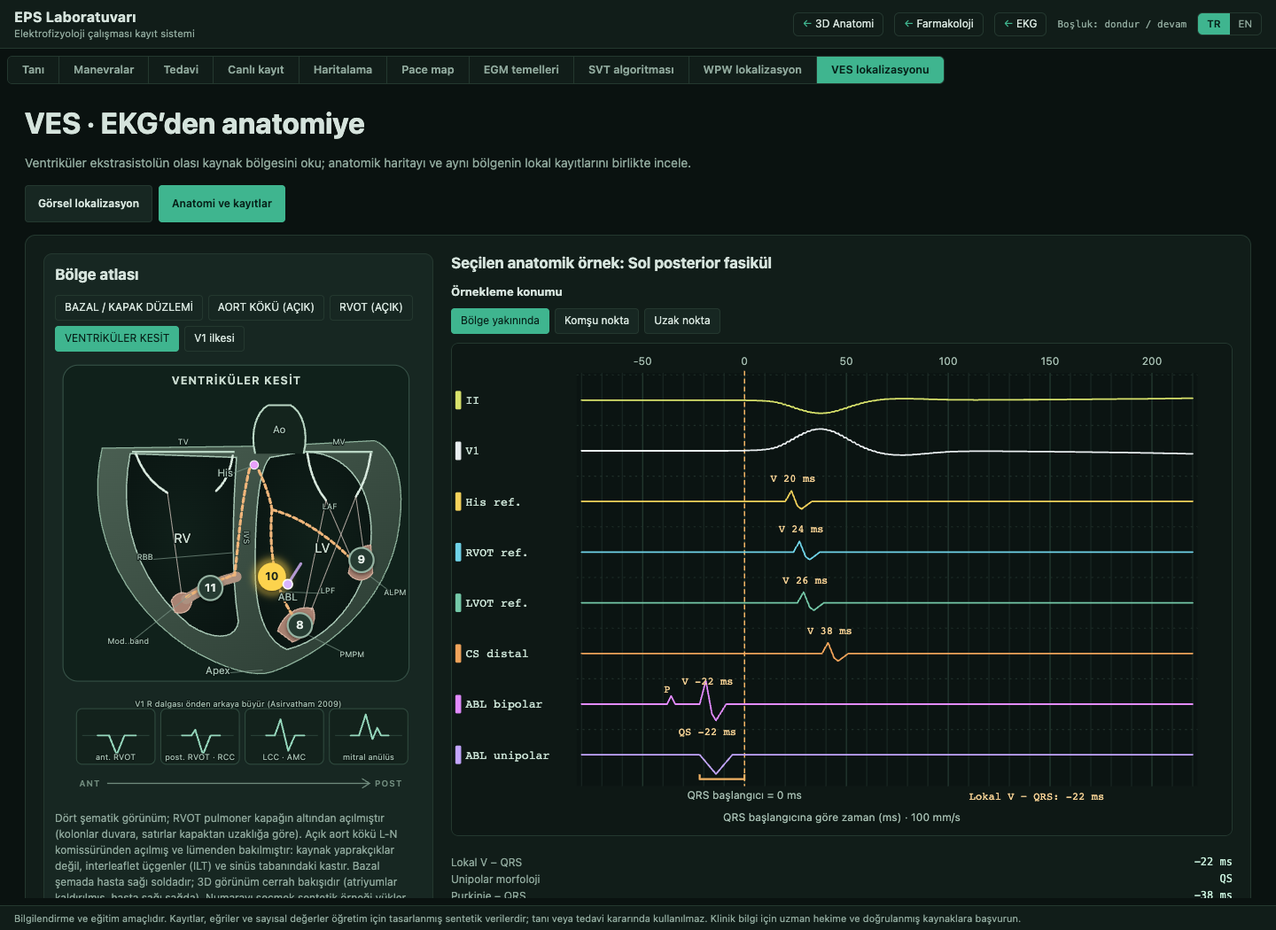
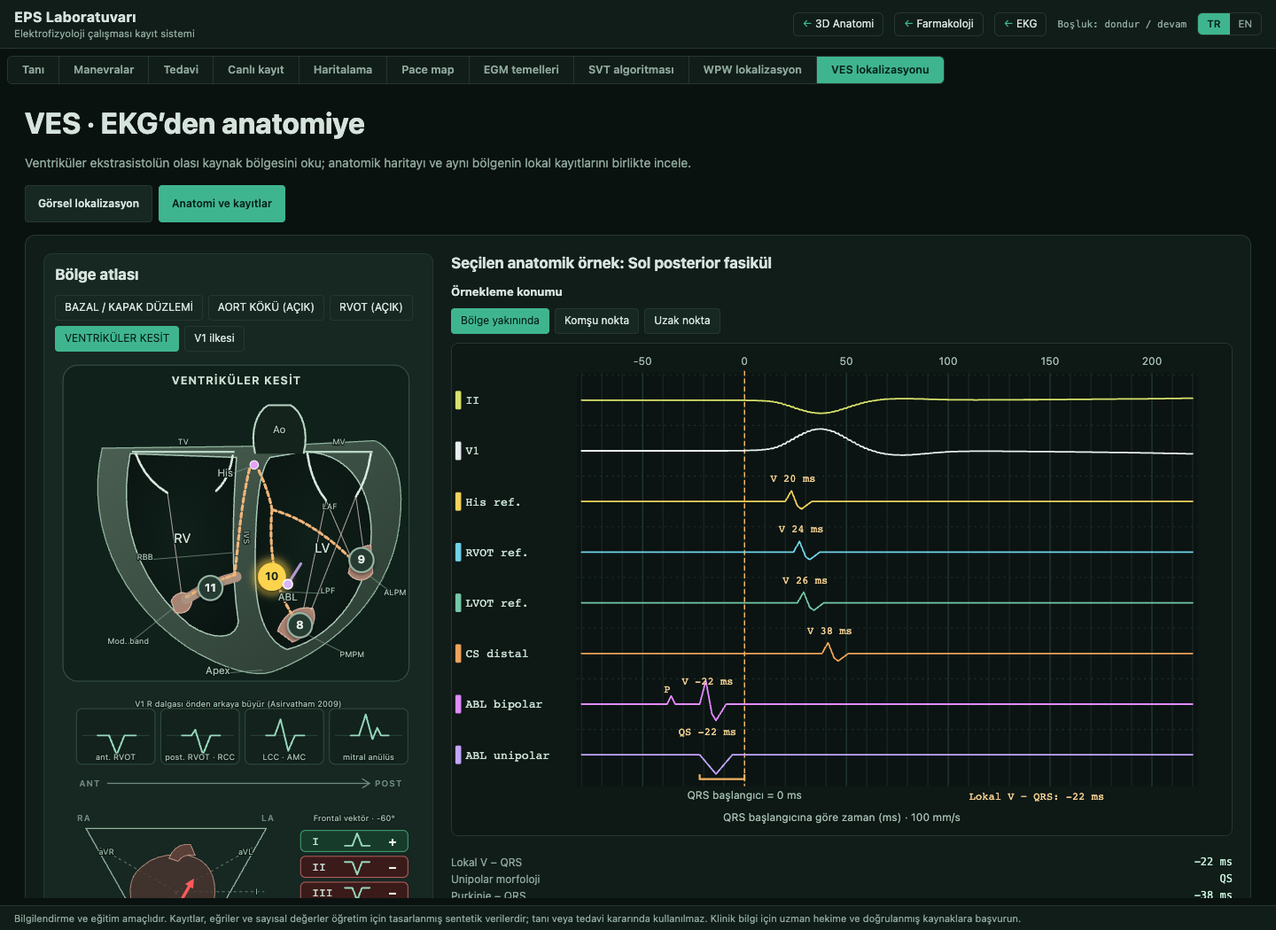
feat(eps): frontal vector panel for each VES example
Adapted from a user-supplied M. Didenko teaching slide ("RVOT VA:
typical ECG vector"; original drawing, the slide is not reproduced).
Under the V1 strip, the atlas shows the Einthoven triangle over a
frontal heart silhouette, the selected example's origin and an arrow at
its frontal QRS axis, with the six limb-lead polarities beside it.

The axis comes from the model (new vesFrontalAxis and
LIMB_LEAD_ANGLES), the same angle that projects the limb leads, so the
panel and the 12-lead strip agree by construction; a unit test checks
every example and lead. Anterior RVOT reads I -, II/III/aVF +, aVR and
aVL -, as on the slide. The panel hides in manual mode (wrapped in a
div, since SVG elements have no hidden property).

Changed region(s): [[0.0312, 0.8533, 0.3438, 0.9752]]

diff --git a/src/eps/ves-loc-text.js b/src/eps/ves-loc-text.js
@@ -8,6 +8,7 @@ export const VES_TEXT = {
     rvotColumns: ['ant. serbest', 'post. serbest', 'post. septum', 'ant. septum'], rvotPa: 'PA · kapak üstü', rvotFree: 'SERBEST DUVAR', rvotSeptum: 'SEPTUM',
     rvotFreeCue: 'QRS ≥ 140 ms, inferiorda çentik,', rvotFreeCue2: 'V3 R/S ≤ 1 (Dixit 2003)', rvotHisCue: 'His bölgesine doğru:', rvotHisCue2: 'V1 QS, III negatif (Park 2012)',
     v1Gradient: 'V1 R dalgası önden arkaya büyür (Asirvatham 2009)', v1Stations: ['ant. RVOT', 'post. RVOT · RCC', 'LCC · AMC', 'mitral anülüs'], v1Ant: 'ANT', v1Post: 'POST',
+    frontal: 'Frontal vektör', frontalNote: 'Vektörün izdüşümü; ekstremite derivasyonlarındaki işaretler EKG ile aynıdır.',
     v1Principle: 'V1 ilkesi', v1PrincipleSites: ['TA lateral', 'bazal septum (RV)', 'MA lateral'], v1PrincipleLegend: 'V1’e yaklaşan aktivasyon R, uzaklaşan QS yazar',
     rootRing: 'sanal bazal halka', rootMembranous: 'membranöz septum', rootFascicle: 'aort altı LAF dalı', rootMitral: 'aorto-mitral perde',
     mapNote: 'Dört şematik görünüm; RVOT pulmoner kapağın altından açılmıştır (kolonlar duvara, satırlar kapaktan uzaklığa göre). Açık aort kökü L-N komissüründen açılmış ve lümenden bakılmıştır: kaynak yaprakçıklar değil, interleaflet üçgenler (ILT) ve sinüs tabanındaki kastır. Bazal şemada hasta sağı soldadır; 3D görünüm cerrah bakışıdır (atriyumlar kaldırılmış, hasta sağı sağda). Numarayı seçmek sentetik örneği yükler. Sarı: seçilen örnek; mavi: EKG ile uyumlu aday bölgeler. Koordinatlar 3D atlasa kayıtlı değildir.',
@@ -41,7 +42,7 @@ export const VES_TEXT = {
     recordNote: 'Bipolar lokal V başlangıcını yüzey QRS başlangıcıyla karşılaştır. Unipolarda QS merkezden uzaklaşan dalgayı destekler; −dV/dt aktivasyon zamanını okumaya yardım eder. QS tek başına odağı kanıtlamaz. Sayılar tasarlanmıştır; bir ablasyon başarı eşiği değildir.',
     catheterNote: 'ABL, seçilen bölgedeki hareketli örnekleme elektrodudur. His, RVOT, LVOT ve distal CS şematik referans kanallarıdır. P işareti yalnız Purkinje örneklerinde çizilir; fasiküler reentry tanısı koydurmaz.',
     channel: { his: 'His ref.', rvot: 'RVOT ref.', lvot: 'LVOT ref.', cs: 'CS distal', abl: 'ABL bipolar', uni: 'ABL unipolar' },
-    sources: 'Kaynaklar ve yöntem', sourceNote: 'Easy PVC’den okuma sırası esinlenmiştir. Buradaki bölge daraltması özgün öğretim modelidir; EASY-PVC’nin doğrulanmış algoritması veya performansı olarak sunulmaz. EASY-PVC yayını ESC kongre özetidir. Haritalar ve kayıtlar özgün sentetik çizimlerdir. Aort kökü, ILT, sinüs komşulukları ve ventrikülo-infundibular kıvrım John ve ark. (Heart Rhythm 2026) derlemesine göre çizildi. Kesitteki V1 ilkesi bir Kagawa ECG eğitim slaytından uyarlanmıştır. RVOT alt bölgeleri, DI ve V1 R dalgası gradyanı kullanıcının sağladığı “Outflow VT” sunumunda (On YK, Samsung Medical Center, 2017) özetlenen Dixit 2003, Asirvatham 2009 ve Park 2012 çalışmalarına dayanır. Kaynak şekilleri kopyalanmadı.',
+    sources: 'Kaynaklar ve yöntem', sourceNote: 'Easy PVC’den okuma sırası esinlenmiştir. Buradaki bölge daraltması özgün öğretim modelidir; EASY-PVC’nin doğrulanmış algoritması veya performansı olarak sunulmaz. EASY-PVC yayını ESC kongre özetidir. Haritalar ve kayıtlar özgün sentetik çizimlerdir. Aort kökü, ILT, sinüs komşulukları ve ventrikülo-infundibular kıvrım John ve ark. (Heart Rhythm 2026) derlemesine göre çizildi. Kesitteki V1 ilkesi bir Kagawa ECG, frontal vektör çizimi bir M. Didenko eğitim slaytından uyarlanmıştır. RVOT alt bölgeleri, DI ve V1 R dalgası gradyanı kullanıcının sağladığı “Outflow VT” sunumunda (On YK, Samsung Medical Center, 2017) özetlenen Dixit 2003, Asirvatham 2009 ve Park 2012 çalışmalarına dayanır. Kaynak şekilleri kopyalanmadı.',
     sites: {
       'rvot-septal': site('RVOT septal', 'Pulmoner kapak altında posterior septal RVOT; ventrikülo-infundibular kıvrımla sağ aort sinüsünden ayrılır, aradaki doku fibröz ve kas uzantıları içerebilir.', 'LBBB benzeri QRS, inferior aks, geç geçiş; posterior septumda DI pozitif ve V1’de küçük r. EKG özellikleri sağ sinüs kaynağından güvenilir ayırmaz.', 'Lokal RV V’si QRS’den önce. Sağ sinüs kaynaklarında posterior RVOT neredeyse eş zamanlı aktive olur; ablasyon geçici baskılıyorsa sağ sinüsü haritala.', 'Posterior septal RVOT en erken görünse bile kaynak sağ sinüs çevresindeki kas olabilir; aktivasyon zamanlaması ve pace map ayırmada sınırlıdır.'),
       'rvot-free': site('RVOT serbest duvar', 'Anterior RV çıkış yolunun serbest duvar tarafı, pulmoner kapak altı; RVOT’un sola ve öne bakan kısmı.', 'İnferior aks, V1 QS ve geç geçiş; anteriorda DI negatif veya izoelektrik, III > II. Serbest duvar: QRS ≥ 140 ms, inferiorda çentik, V3 R/S ≤ 1.', 'Yakın ABL’de erken lokal V; uzak noktada daha geç aktivasyon ve rS örneği.', 'Kriterler RVOT serilerinden; çentik ve QRS genişliği tek tek kesin değildir. Pulmoner kapak üstü odaklarda da III > II görülebilir.'),
@@ -65,6 +66,7 @@ export const VES_TEXT = {
     rvotColumns: ['ant. free wall', 'post. free wall', 'post. septum', 'ant. septum'], rvotPa: 'PA · supravalvular', rvotFree: 'FREE WALL', rvotSeptum: 'SEPTUM',
     rvotFreeCue: 'QRS ≥ 140 ms, inferior notching,', rvotFreeCue2: 'V3 R/S ≤ 1 (Dixit 2003)', rvotHisCue: 'Towards the His region:', rvotHisCue2: 'V1 QS, negative III (Park 2012)',
     v1Gradient: 'V1 R wave grows from anterior to posterior (Asirvatham 2009)', v1Stations: ['ant. RVOT', 'post. RVOT · RCC', 'LCC · AMC', 'mitral annulus'], v1Ant: 'ANT', v1Post: 'POST',
+    frontal: 'Frontal vector', frontalNote: 'Projection of the vector; the limb-lead signs match the ECG strip.',
     v1Principle: 'V1 principle', v1PrincipleSites: ['lateral TA', 'basal septum (RV)', 'lateral MA'], v1PrincipleLegend: 'Activation towards V1 writes an R, away from it a QS',
     rootRing: 'virtual basal ring', rootMembranous: 'membranous septum', rootFascicle: 'infra-aortic LAF branch', rootMitral: 'aorto-mitral curtain',
     mapNote: 'Four schematic views; the RVOT is opened below the pulmonary valve (columns by wall, rows by depth below the valve). The aortic root is opened at the L-N commissure and seen from the lumen: the sources are the interleaflet triangles (ILT) and the muscle at the sinus bases, not the leaflets. In the basal schematic the patient\'s right is on the left; the 3D view is the surgeon\'s view (atria removed, patient right on the right). Select a number to load a synthetic example. Gold: selected example; blue: compatible ECG candidates. Coordinates are not registered to the 3D atlas.',
@@ -98,7 +100,7 @@ export const VES_TEXT = {
     recordNote: 'Compare bipolar local V onset with surface QRS onset. Unipolar QS supports a departing wavefront; −dV/dt helps read activation time. QS alone does not prove the focus. Values are designed, not an ablation success cutoff.',
     catheterNote: 'ABL is the movable sampling electrode in the selected region. His, RVOT, LVOT and distal CS are schematic reference channels. P is shown only in Purkinje examples; it does not diagnose fascicular reentry.',
     channel: { his: 'His ref.', rvot: 'RVOT ref.', lvot: 'LVOT ref.', cs: 'CS distal', abl: 'ABL bipolar', uni: 'ABL unipolar' },
-    sources: 'Sources and method', sourceNote: 'Reading order is inspired by Easy PVC. Region narrowing here is an original teaching model, not the validated EASY-PVC algorithm or its performance. The EASY-PVC publication is an ESC congress abstract. Maps and recordings are original synthetic drawings. The aortic root, ILTs, sinus relations and the ventriculo-infundibular fold follow the review by John et al. (Heart Rhythm 2026). The V1 principle on the cutaway is adapted from a Kagawa ECG teaching slide. RVOT subregions, lead I and the V1 R-wave gradient follow Dixit 2003, Asirvatham 2009 and Park 2012 as summarised in the user-supplied “Outflow VT” slides (On YK, Samsung Medical Center, 2017). Source figures are not reproduced.',
+    sources: 'Sources and method', sourceNote: 'Reading order is inspired by Easy PVC. Region narrowing here is an original teaching model, not the validated EASY-PVC algorithm or its performance. The EASY-PVC publication is an ESC congress abstract. Maps and recordings are original synthetic drawings. The aortic root, ILTs, sinus relations and the ventriculo-infundibular fold follow the review by John et al. (Heart Rhythm 2026). The V1 principle on the cutaway is adapted from a Kagawa ECG teaching slide, the frontal vector from an M. Didenko teaching slide. RVOT subregions, lead I and the V1 R-wave gradient follow Dixit 2003, Asirvatham 2009 and Park 2012 as summarised in the user-supplied “Outflow VT” slides (On YK, Samsung Medical Center, 2017). Source figures are not reproduced.',
     sites: {
       'rvot-septal': site('Septal RVOT', 'Posterior septal RVOT below the pulmonary valve; the ventriculo-infundibular fold separates it from the right aortic sinus and may hold fibrous tissue and muscular extensions.', 'LBBB-like QRS, inferior axis, late transition; on the posterior septum lead I is positive with a small V1 r. ECG features do not reliably separate it from a right-sinus source.', 'Local RV V precedes QRS. With right-sinus sources the posterior RVOT activates almost simultaneously; if ablation only suppresses transiently, map the right sinus.', 'Even when the posterior septal RVOT is earliest, the source may be muscle around the right sinus; timing and pace mapping discriminate poorly.'),
       'rvot-free': site('RVOT free wall', 'Anterior free-wall side of the RV outflow below the pulmonary valve; the leftward, anterior part of the RVOT.', 'Inferior axis, V1 QS and late transition; anteriorly lead I is negative or isoelectric and III > II. Free wall: QRS ≥ 140 ms, inferior notching, V3 R/S ≤ 1.', 'Early local V at near ABL; later activation and rS at the remote example.', 'Criteria come from RVOT series; notching and width are not individually definitive. Supravalvular pulmonary foci can also show III > II.'),

diff --git a/src/eps/ves-loc-map.js b/src/eps/ves-loc-map.js
@@ -1,4 +1,4 @@
-import { VES_REGIONS } from './ves-loc-model.js';
+import { VES_REGIONS, LIMB_LEAD_ANGLES } from './ves-loc-model.js';
 
 // Two original anatomical schematics for the PVC workbook. Basal view: the
 // ventricular base seen from above with the atria removed, anterior up and
@@ -289,6 +289,59 @@ function v1PrincipleOverlay(doc, g, t) {
   t.v1PrincipleSites.forEach((name, i) => { const [x, y] = V1_PRINCIPLE[i].tag; label(doc, layer, x, y, name, 'ves-map-tiny ves-v1-tag'); });
   label(doc, layer, 568, 44, t.v1PrincipleLegend, 'ves-map-tiny');
   g.append(layer);
+}
+
+/**
+ * Frontal vector (original drawing after an M. Didenko teaching slide): Einthoven triangle over a
+ * frontal heart silhouette, the example's origin and its QRS axis. Limb-lead polarities are the
+ * projections of that axis, the same numbers that draw the 12-lead strip.
+ */
+const FRONTAL_SITES = Object.freeze({
+  'rvot-septal': [116, 58], 'rvot-free': [128, 52], 'lvot-cusp': [100, 70], 'lv-summit': [140, 66], 'para-his': [90, 92],
+  tricuspid: [70, 124], mitral: [152, 86], 'papillary-pm': [120, 144], 'papillary-al': [154, 122], fascicle: [110, 136], moderator: [88, 136], crux: [102, 156]
+});
+export const leadPolarity = (axis, lead) => { const c = Math.cos((axis - LIMB_LEAD_ANGLES[lead]) * Math.PI / 180); return c > .1 ? '+' : c < -.1 ? '−' : '±'; };
+export function renderFrontalVector(doc, svg, { t, selected, axis }) {
+  const headId = `ves-frontal-head-${++uidCounter}`;
+  const defsEl = s(doc, 'defs'), head = s(doc, 'marker', { id: headId, viewBox: '0 0 10 10', refX: 6, refY: 5, markerWidth: 3, markerHeight: 3, orient: 'auto' });
+  head.append(s(doc, 'path', { d: 'M0 0 L10 5 L0 10 Z', class: 'ves-frontal-head' })); defsEl.append(head);
+  svg.replaceChildren(s(doc, 'title', {}, t.frontal), defsEl);
+  svg.setAttribute('viewBox', '0 0 370 214');
+  svg.setAttribute('aria-label', axis == null ? t.frontal : `${t.frontal}: ${axis}°`);
+  if (axis == null || !FRONTAL_SITES[selected]) return;
+  const RA = [26, 30], LA = [214, 30], LL = [120, 196], C = [120, 96];
+  svg.append(s(doc, 'path', { d: `M${RA} L${LA} L${LL} Z`, class: 'ves-frontal-triangle' }));
+  // Frontal heart: base up, apex to the patient's left (viewer's right) and down; RVOT at the top.
+  // The heart, origin and vector share one group scaled into the triangle.
+  const heart = s(doc, 'g', { transform: 'translate(23 21) scale(.8)' });
+  heart.append(s(doc, 'path', { d: 'M78 60 Q98 42 136 46 Q172 54 172 94 Q170 134 142 164 Q120 178 100 162 Q70 136 62 102 Q58 74 78 60 Z', class: 'ves-frontal-heart' }));
+  heart.append(s(doc, 'path', { d: 'M112 50 Q120 30 140 32 L146 46 Q130 44 124 54 Z', class: 'ves-frontal-rvot' }));
+  label(doc, heart, 92, 126, 'RV', 'ves-map-tiny'); label(doc, heart, 146, 120, 'LV', 'ves-map-tiny');
+  // Lead axes through the centre with their positive ends.
+  for (const lead of Object.keys(LIMB_LEAD_ANGLES)) {
+    const a = LIMB_LEAD_ANGLES[lead] * Math.PI / 180, [x, y] = [C[0] + 92 * Math.cos(a), C[1] + 92 * Math.sin(a)];
+    svg.append(s(doc, 'line', { x1: C[0], y1: C[1], x2: x.toFixed(1), y2: y.toFixed(1), class: 'ves-frontal-axis' }));
+    label(doc, svg, (C[0] + 84 * Math.cos(a)).toFixed(1), (C[1] + 84 * Math.sin(a) + 3).toFixed(1), lead, 'ves-map-tiny ves-frontal-lead-label');
+  }
+  label(doc, svg, RA[0] - 2, RA[1] - 8, 'RA', 'ves-map-axis'); label(doc, svg, LA[0] + 2, LA[1] - 8, 'LA', 'ves-map-axis'); label(doc, svg, LL[0], LL[1] + 14, 'LL', 'ves-map-axis');
+  // Origin and the QRS vector leaving it.
+  const [px, py] = FRONTAL_SITES[selected], a = axis * Math.PI / 180;
+  heart.append(s(doc, 'path', { d: `M${px} ${py} L${(px + 64 * Math.cos(a)).toFixed(1)} ${(py + 64 * Math.sin(a)).toFixed(1)}`, class: 'ves-frontal-vector', 'marker-end': `url(#${headId})`, 'data-ves-frontal-axis': axis }));
+  const star = Array.from({ length: 10 }, (_, i) => { const r = i % 2 ? 3.2 : 7.5, b = -Math.PI / 2 + i * Math.PI / 5; return `${i ? 'L' : 'M'}${(px + r * Math.cos(b)).toFixed(1)} ${(py + r * Math.sin(b)).toFixed(1)}`; }).join(' ') + ' Z';
+  heart.append(s(doc, 'path', { d: star, class: 'ves-frontal-star' }));
+  svg.append(heart);
+  // Polarity table: what the vector writes in each limb lead.
+  label(doc, svg, 306, 22, `${t.frontal} · ${axis}°`, 'ves-map-tiny');
+  Object.keys(LIMB_LEAD_ANGLES).forEach((lead, i) => {
+    const y = 44 + i * 27, sign = leadPolarity(axis, lead);
+    const g = s(doc, 'g', { 'data-ves-frontal-lead': lead, 'data-sign': sign });
+    g.append(s(doc, 'rect', { x: 250, y: y - 12, width: 112, height: 22, rx: 5, class: `ves-frontal-row ves-frontal-${sign === '+' ? 'pos' : sign === '−' ? 'neg' : 'iso'}` }));
+    g.append(s(doc, 'text', { x: 262, y: y + 3, class: 'ves-ecg-label', 'text-anchor': 'start' }, lead));
+    const d = sign === '+' ? `M296 ${y + 4} h8 l5 -13 l5 13 h8` : sign === '−' ? `M296 ${y - 6} h8 l5 13 l5 -13 h8` : `M296 ${y} h8 l3 -8 l4 14 l3 -6 h8`;
+    g.append(s(doc, 'path', { d, class: 'ves-trace ves-frontal-glyph' }), s(doc, 'text', { x: 346, y: y + 4, class: 'ves-frontal-sign' }, sign));
+    svg.append(g);
+  });
+  label(doc, svg, 185, 210, t.frontalNote, 'ves-map-tiny');
 }
 
 /** The 3D render as the basal background; markers follow BASAL_3D_SITES. */

diff --git a/src/eps/ves-loc-panel.js b/src/eps/ves-loc-panel.js
@@ -1,7 +1,7 @@
-import { VES_REGIONS, VES_INPUTS, VES_OPTIONS, VES_SOURCES, VES_POSITIONS, vesRegion, vesEcg, vesFeatures, localizeVes, v2TransitionRatio, vesRecording } from './ves-loc-model.js';
+import { VES_REGIONS, VES_INPUTS, VES_OPTIONS, VES_SOURCES, VES_POSITIONS, vesRegion, vesEcg, vesFrontalAxis, vesFeatures, localizeVes, v2TransitionRatio, vesRecording } from './ves-loc-model.js';
 import { VES_TEXT } from './ves-loc-text.js';
 import { vesSvg, renderVesOption, renderVesEcg, renderVesRecording } from './ves-loc-visual.js';
-import { renderVesMap, renderV1Gradient, VIEW_SITES } from './ves-loc-map.js';
+import { renderVesMap, renderV1Gradient, renderFrontalVector, VIEW_SITES } from './ves-loc-map.js';
 
 export function createVesLocPanel(doc, { getLang = () => 'tr' } = {}) {
   const state = { active: false, page: 'loc', mapView: 'base', atlas3d: false, v1Principle: false, selected: 'rvot-septal', inputs: vesFeatures('rvot-septal'), position: 'near', scar: false, amplitudes: {} };
@@ -46,13 +46,16 @@ export function createVesLocPanel(doc, { getLang = () => 'tr' } = {}) {
     viewRow.append(principleToggle);
     const svg = vesSvg(doc, '0 0 760 350', 'ves-map');
     const gradient = vesSvg(doc, '0 0 370 100', 'ves-v1-gradient');
+    const frontal = vesSvg(doc, '0 0 370 214', 'ves-frontal');
+    // SVG elements have no `hidden` property; the wrapper div carries it.
+    const frontalBox = el('div', 'ves-frontal-box'); frontalBox.append(frontal);
     const n = note(), list = el('div', 'ves-site-list');
     const buttons = new Map(VES_REGIONS.map(r => {
       const b = button({ 'data-ves-example': r.id }, () => select(r.id));
       list.append(b); return [r.id, b];
     }));
-    box.append(h, viewRow, svg, gradient, n, list); parent.append(box);
-    mapParts.push({ h, svg, gradient, n, buttons, viewButtons, atlasToggle, principleToggle, recording });
+    box.append(h, viewRow, svg, gradient, frontalBox, n, list); parent.append(box);
+    mapParts.push({ h, svg, gradient, frontal, frontalBox, n, buttons, viewButtons, atlasToggle, principleToggle, recording });
   }
   const loc = pages.get('loc'), recordings = pages.get('recordings');
   const locLayout = el('div', 'ves-localize-layout');
@@ -156,6 +159,8 @@ export function createVesLocPanel(doc, { getLang = () => 'tr' } = {}) {
       renderVesMap(doc, parts.svg, { t, selected: state.selected, candidates: candidateIds, position: parts.recording && selected ? state.position : null, view: state.mapView, atlas3d: state.atlas3d, v1Principle: state.v1Principle,
         onSelect(id) { select(id); parts.svg.querySelector?.(`[data-ves-map-site="${id}"]`)?.focus(); } });
       renderV1Gradient(doc, parts.gradient, { t, selected: state.selected });
+      renderFrontalVector(doc, parts.frontal, { t, selected: state.selected, axis: selected ? vesFrontalAxis(selected.id) : null });
+      parts.frontalBox.hidden = !selected;
       for (const [id, b] of parts.buttons) {
         b.textContent = `${vesRegion(id).number} · ${t.sites[id].name}`; b.setAttribute('aria-pressed', state.selected === id);
         b.setAttribute('data-candidate', candidateIds.includes(id));

diff --git a/src/eps/ves-loc-model.js b/src/eps/ves-loc-model.js
@@ -63,6 +63,14 @@ const tWave = (t, width, r, s) => {
 const beat = (t, width, r, s, notch) => qrsWave(t, width, r, s, notch) + tWave(t, width, r, s);
 // Para-Hisian: frontal axis near 40 degrees, so lead III stays small (Park 2012: a negative III suggests the His region).
 const AXIS_OVERRIDE = Object.freeze({ 'para-his': 40 });
+/** Frontal-plane QRS axis of an example, degrees (hexaxial: 0 = lead I, +90 = aVF). */
+export function vesFrontalAxis(id) {
+  const site = vesRegion(id);
+  if (!site) return null;
+  return AXIS_OVERRIDE[site.id] ?? (site.axis === 'superior' ? (site.leadI === 'negative' ? -110 : -60) : (site.leadI === 'negative' ? 100 : 75));
+}
+/** Hexaxial angle of each limb lead's positive pole. */
+export const LIMB_LEAD_ANGLES = Object.freeze({ I: 0, II: 60, III: 120, aVR: -150, aVL: -30, aVF: 90 });
 export function vesEcg(id) {
   const site = vesRegion(id);
   if (!site) return null;
@@ -72,7 +80,7 @@ export function vesEcg(id) {
   // Limb leads project one frontal-plane vector (axis angle in degrees, hexaxial convention):
   // inferior 75 or 100, superior -60 or -110 depending on lead I. Hence III = II - I exactly,
   // and an inferior axis with a negative lead I has III taller than II (anterior/leftward outflow).
-  const theta = (AXIS_OVERRIDE[site.id] ?? (site.axis === 'superior' ? (site.leadI === 'negative' ? -110 : -60) : (site.leadI === 'negative' ? 100 : 75))) * Math.PI / 180;
+  const theta = vesFrontalAxis(site.id) * Math.PI / 180;
   const LIMB_MV = 1.5;
   const proj = { I: LIMB_MV * Math.cos(theta), II: LIMB_MV * Math.cos(theta - Math.PI / 3) };
   const transition = { early: 2, v3: 3, late: 5, positive: 1, negative: 7 }[site.transition];

diff --git a/src/eps/ves-loc.css b/src/eps/ves-loc.css
@@ -99,6 +99,19 @@
 .ves-v1-star { fill: #f39ab6; stroke: #fff; stroke-width: 1; }
 .ves-v1-glyph-bg { fill: #0c1713; stroke: #2f4a3e; opacity: .92; }
 .ves-v1-glyph { fill: none; stroke-width: 1.8; stroke-linejoin: round; }
+.ves-frontal { display: block; width: min(100%, 400px, 56vh); margin-inline: auto; height: auto; }
+.ves-frontal-triangle { fill: none; stroke: #8fb39d; stroke-width: 1.2; }
+.ves-frontal-heart { fill: #4a3530; stroke: #c99a88; stroke-width: 1.2; opacity: .8; }
+.ves-frontal-rvot { fill: #5a4038; stroke: #c99a88; stroke-width: 1; }
+.ves-frontal-axis { stroke: #5d7a6c; stroke-width: .9; stroke-dasharray: 3 3; }
+.ves-frontal-vector { stroke: #ff5a5a; stroke-width: 4; stroke-linecap: round; }
+.ves-frontal-head { fill: #ff5a5a; }
+.ves-frontal-star { fill: #ff5a5a; stroke: #ffe066; stroke-width: 1.2; }
+.ves-frontal-row { stroke-width: 1; }
+.ves-frontal-pos { fill: #173b2b; stroke: #3f9e70; } .ves-frontal-neg { fill: #3b1a1a; stroke: #b25c5c; } .ves-frontal-iso { fill: #2b2b1a; stroke: #9e9a52; }
+.ves-frontal-glyph { stroke-width: 1.8; }
+.ves-frontal-lead-label { fill: #8fb39d; }
+.ves-frontal-sign { fill: #f1f7f3; font: bold 13px system-ui, sans-serif; text-anchor: middle; }
 .ves-map-site { cursor: pointer; }
 .ves-map-site circle { fill: #1f3329; stroke: #cfe3d6; stroke-width: 1.8; }
 .ves-map-site .ves-map-halo { fill: transparent; stroke: none; }

diff --git a/research/VES_VISUAL_WORKBOOK.md b/research/VES_VISUAL_WORKBOOK.md
@@ -11,6 +11,7 @@ Date: 2026-10-08. Scope: EPS educational workbook at `/eps/#/ves`, built within 
 - [John, Ghazizadeh, Ceresnak, Heart Rhythm 2026, aortic root substrates](https://doi.org/10.1016/j.hrthm.2026.01.055) (local PDF supplied by the user) informs the opened aortic root view and the sinus texts: the true sources are the interleaflet triangles (ILT) and the muscle at the sinus bases, not the leaflets ("aortic cusp" is a misnomer); the right sinus overlies the septal summit, the non-coronary sinus the interatrial and membranous septum, the left sinus the aorto-mitral continuity; the RVOT infundibulum lies anterior to the R and L sinuses and the ventriculo-infundibular fold separates the posterior septal RVOT from the right sinus; R/L ILT PVCs are LBBB-like, inferior-axis with transition at V3 or earlier, an abrupt V2-V3 transition and a V1 downstroke notch; ILT potentials may precede QRS by 30-40 ms; GCV/AIV act as conduits and GCV ablation risks the diagonal branch; coronary ostia average 15-17 mm above the sinuses; an infra-aortic LAF branch lies beneath the right sinus. Drawings are original; the review's figures are not reproduced.
 - User-supplied teaching slides "Outflow VT" (On YK, Samsung Medical Center, 2017; local PDF `22_39.pdf`) summarise the primary sources used for the RVOT view and V1 strip; the primary papers are cited, the slides' figures are not reproduced: [Dixit et al. 2003](https://doi.org/10.1046/j.1540-8167.2003.02404.x) (RVOT lead I positive posteriorly and negative anteriorly; free wall with QRS ≥ 140 ms, inferior notching and V3 R/S ≤ 1), [Asirvatham 2009](https://doi.org/10.1111/j.1540-8167.2009.01472.x) (V1 R wave grows from anterior RVOT through posterior RVOT/RCC and LCC/AMC to the mitral annulus; supravalvular pulmonary foci with III > II), [Park, Kim, Marchlinski 2012](https://doi.org/10.1111/j.1540-8159.2012.03488.x) (transition groups before V3, at V3 and from V4; para-Hisian V1 QS, His region negative III; R in lead I for RCC and S for LCC). Ouyang 2002 R-wave duration and R/S amplitude indices are noted in the slides but not implemented.
 - User-supplied teaching slide by Kagawa ECG (local image `tempFileForShare_20240624-073935.jpg`, Japanese) states the basic V1 principle: a PVC from the lateral tricuspid annulus or the mid-basal septum on the RV side writes a negative V1, one from the lateral mitral annulus a positive V1, because activation moves away from or towards the right-anterior V1 electrode; the slide notes individual anatomical variation. The cutaway's optional "V1 principle" layer redraws this idea (V1 electrode, three origins, spread arrows, V1 morphologies); the slide image is not reproduced. Following the slide and Park 2012, the para-Hisian example now has a V1 QS and a frontal axis near 40 degrees so lead III stays small.
+- User-supplied teaching slide "RVOT VA: typical ECG vector" by M. Didenko (local image `17117603756903408163499278919714.jpg`) shows the Einthoven triangle over the heart with an RVOT origin and an inferiorly directed vector (II and III tall, lead I small). The atlas's "frontal vector" panel redraws this for every example: Einthoven triangle, frontal heart silhouette, the origin and an arrow at the example's own frontal axis (`vesFrontalAxis`), with the six limb-lead polarities. Because the limb leads are projections of that axis, the panel and the 12-lead strip agree by construction (unit-tested for every example and lead). The slide image is not reproduced.
 - [Clinical validation of automatic local activation time annotation during focal PVC ablation, Europace 2018](https://academic.oup.com/europace/article/20/FI2/f171/4587592) informs the paired bipolar/unipolar teaching concept: local bipolar activity versus surface QRS onset; unipolar departing-wavefront QS versus initial positive deflection away from a focus; maximal negative unipolar slope as an activation surrogate. QS is supportive, not definitive.
 
 ## Model and provenance
